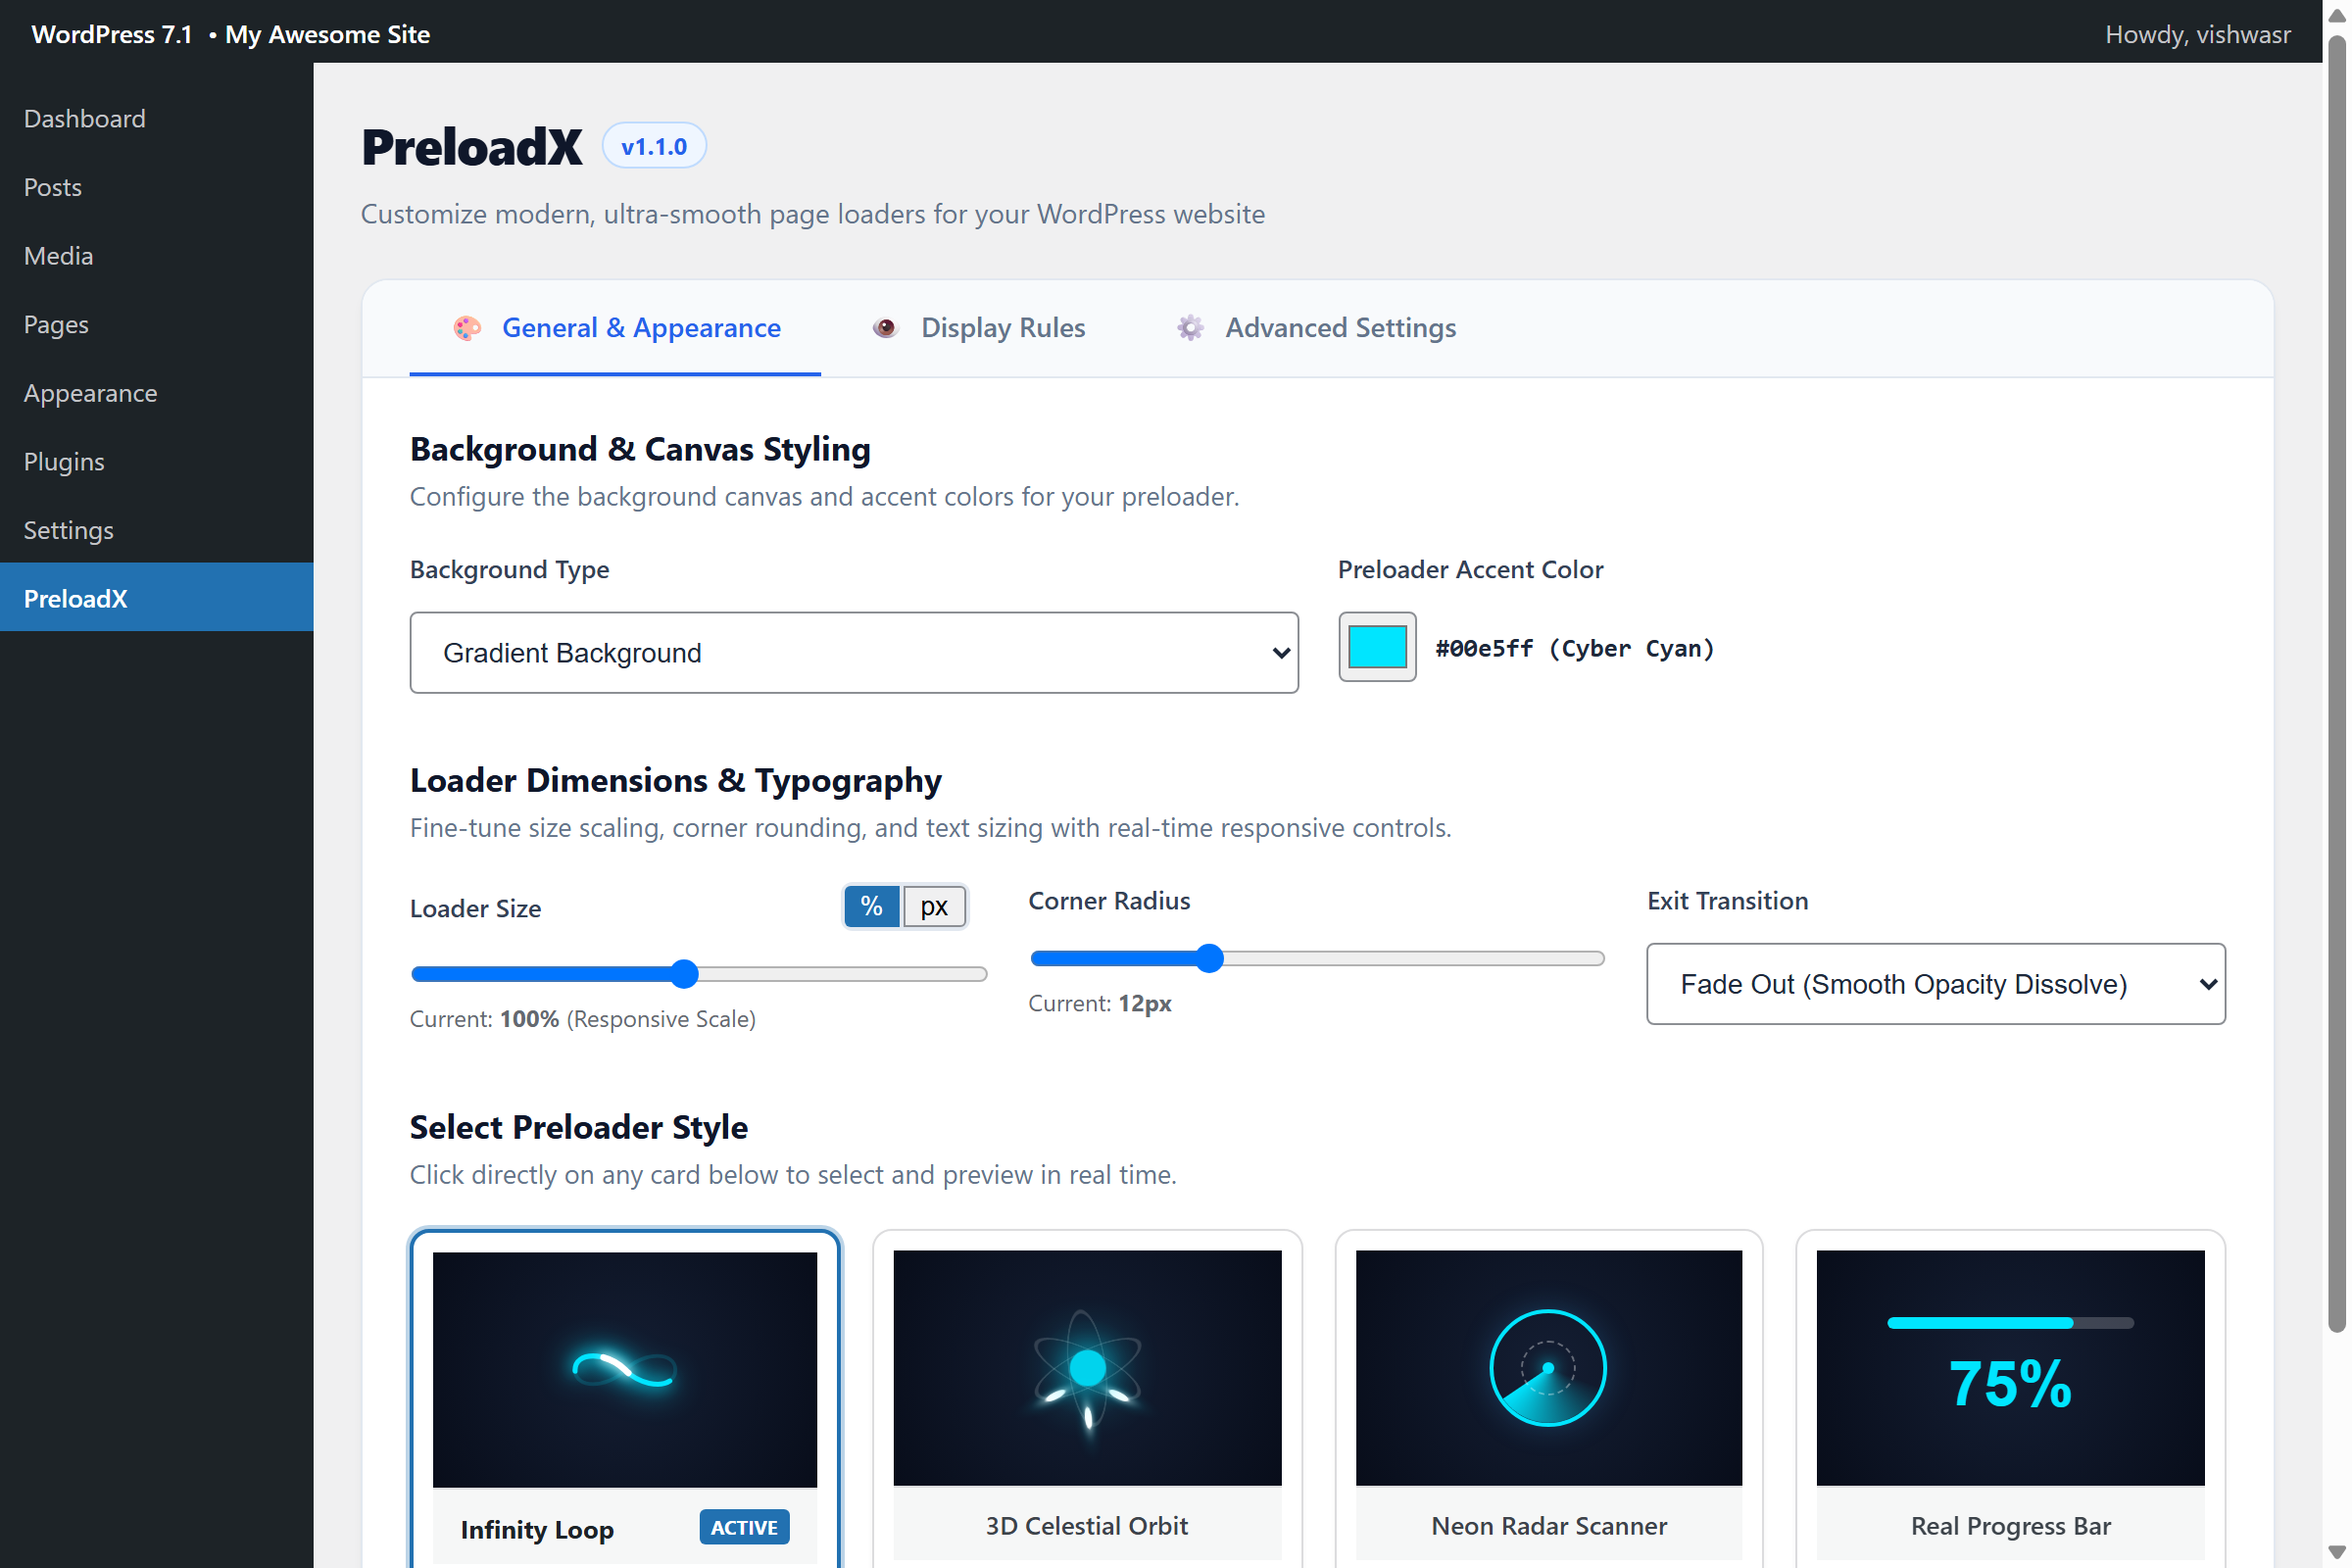
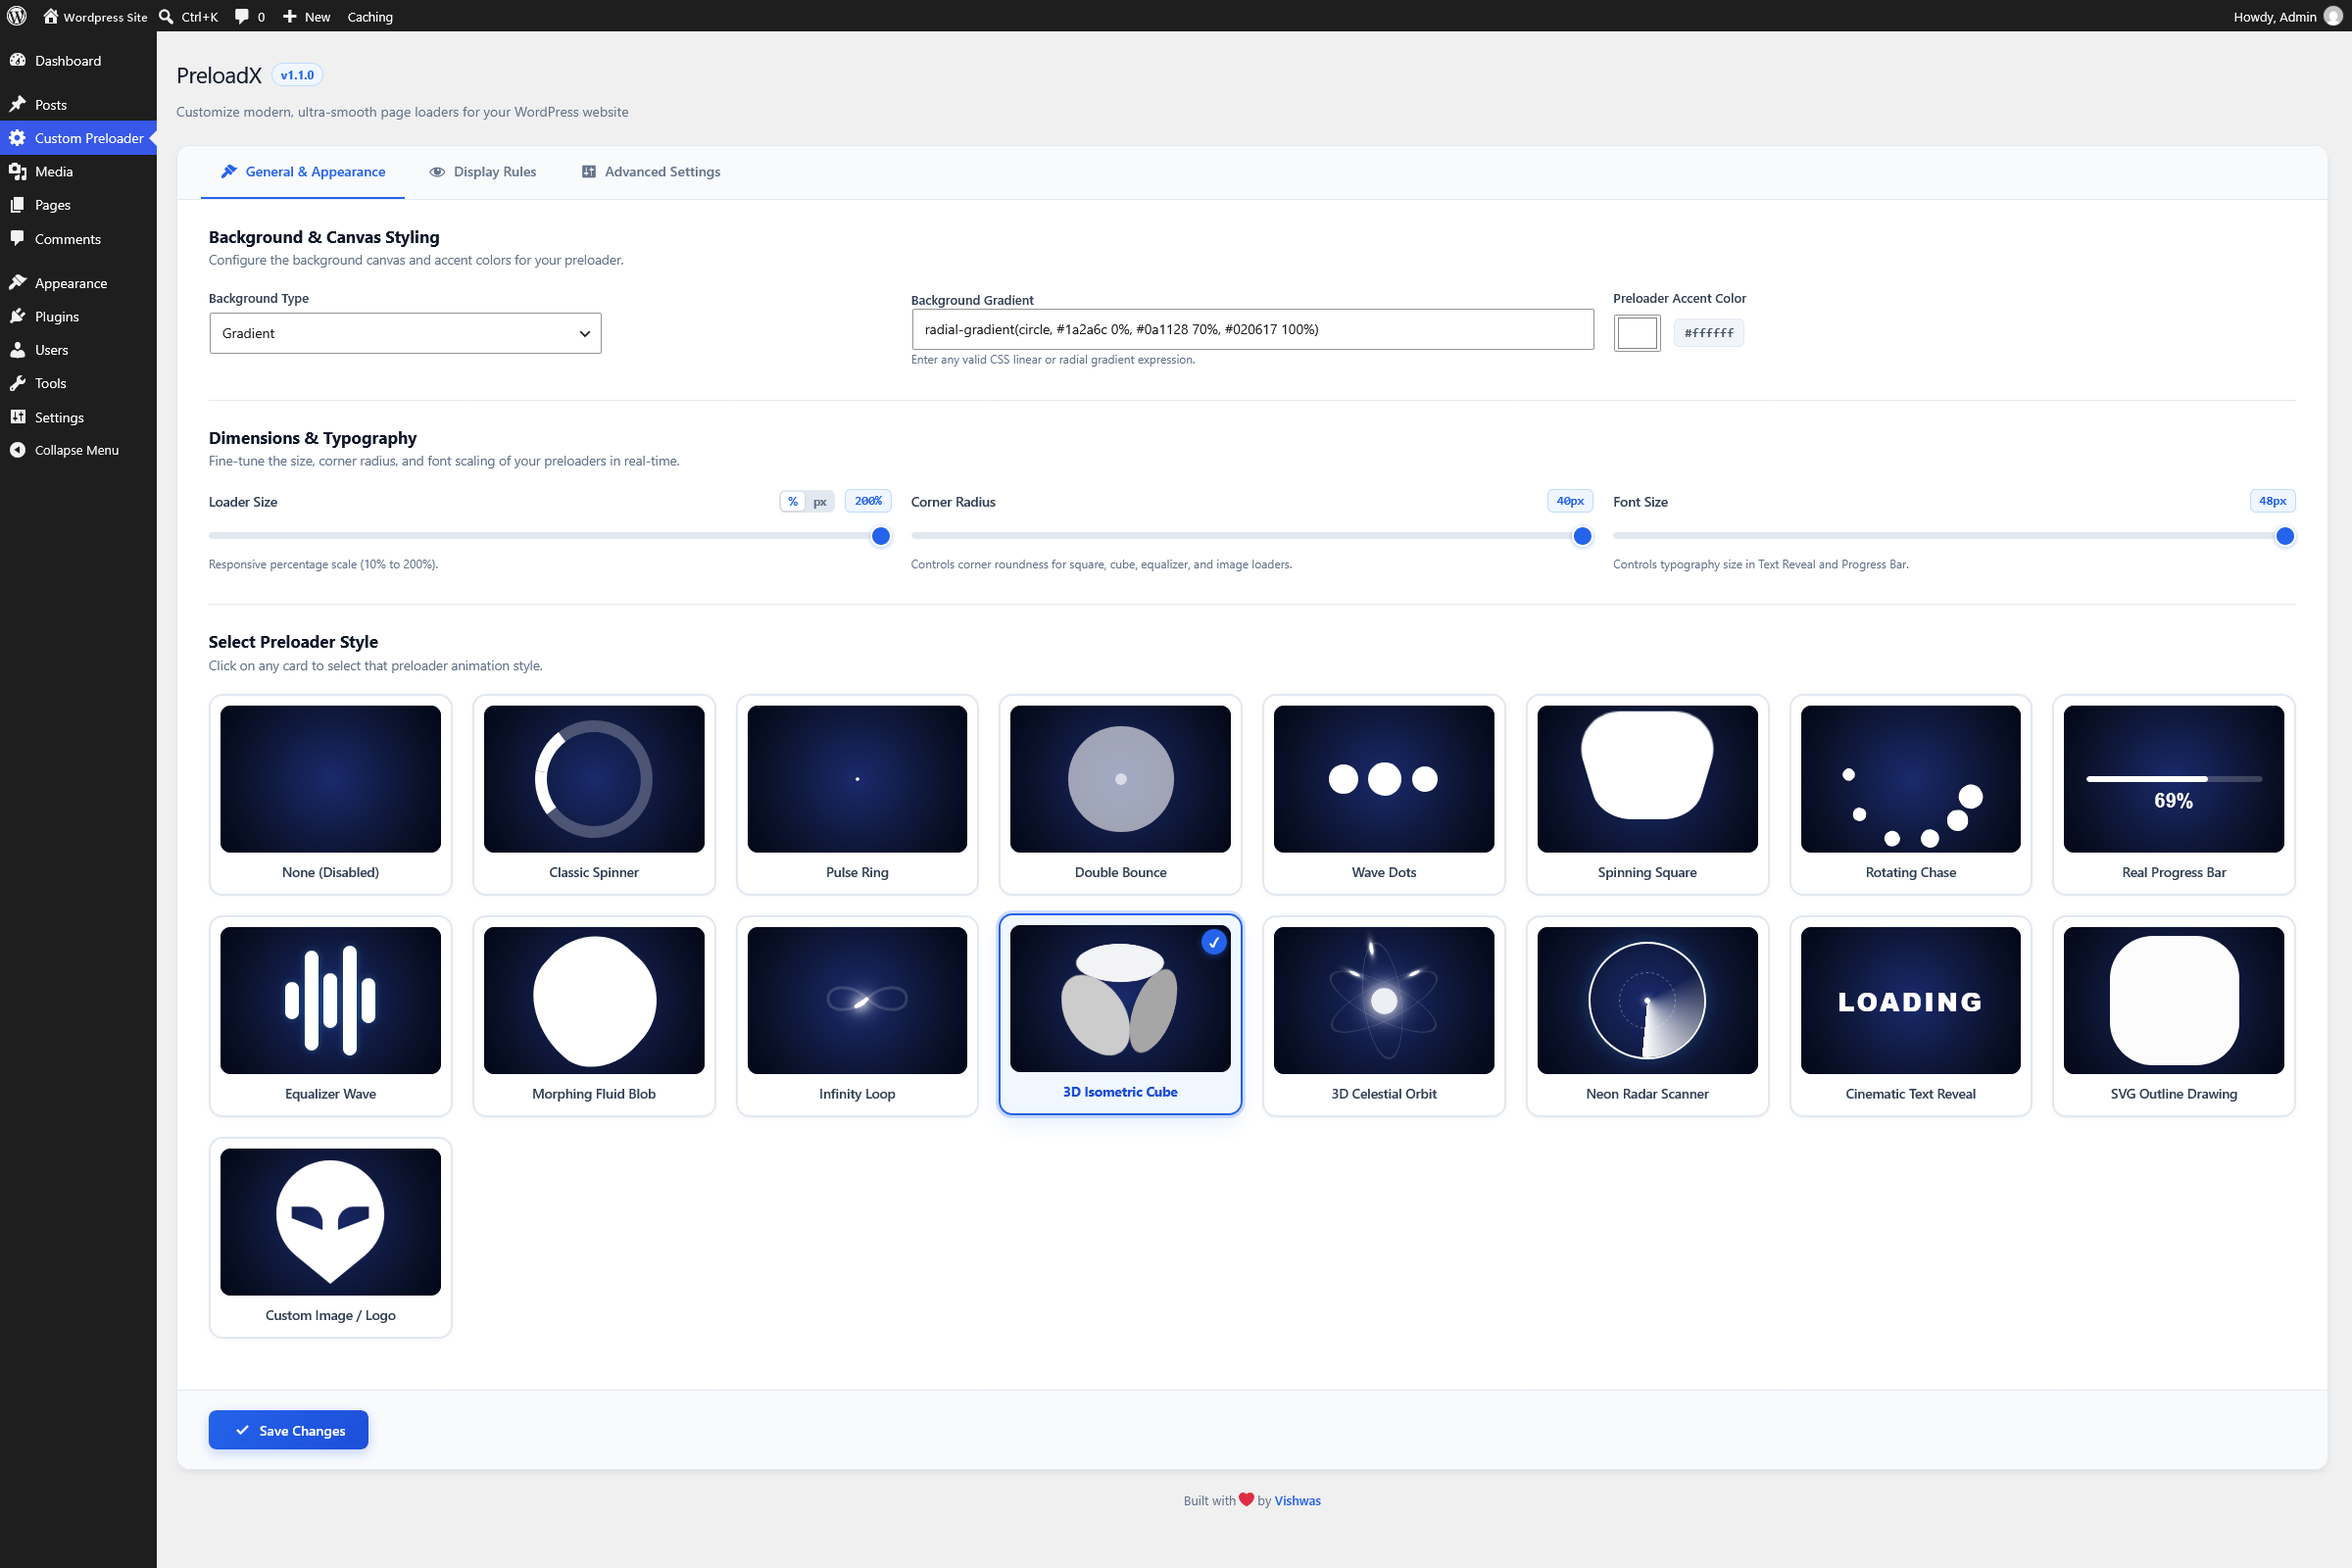
Improvement: Updated admin dashboard screenshot with live WordPress site capture and removed legacy admin-settings.png.

diff --git a/readme.md b/readme.md
@@ -66,6 +66,9 @@ If you prefer to install manually:
 
 ## Screenshots
 
+### Admin Dashboard
+![Admin Dashboard](images/admin-dashboard.png)
+
 ### Infinity Loop
 ![Infinity Loop](images/infinity-loop.png)
 
